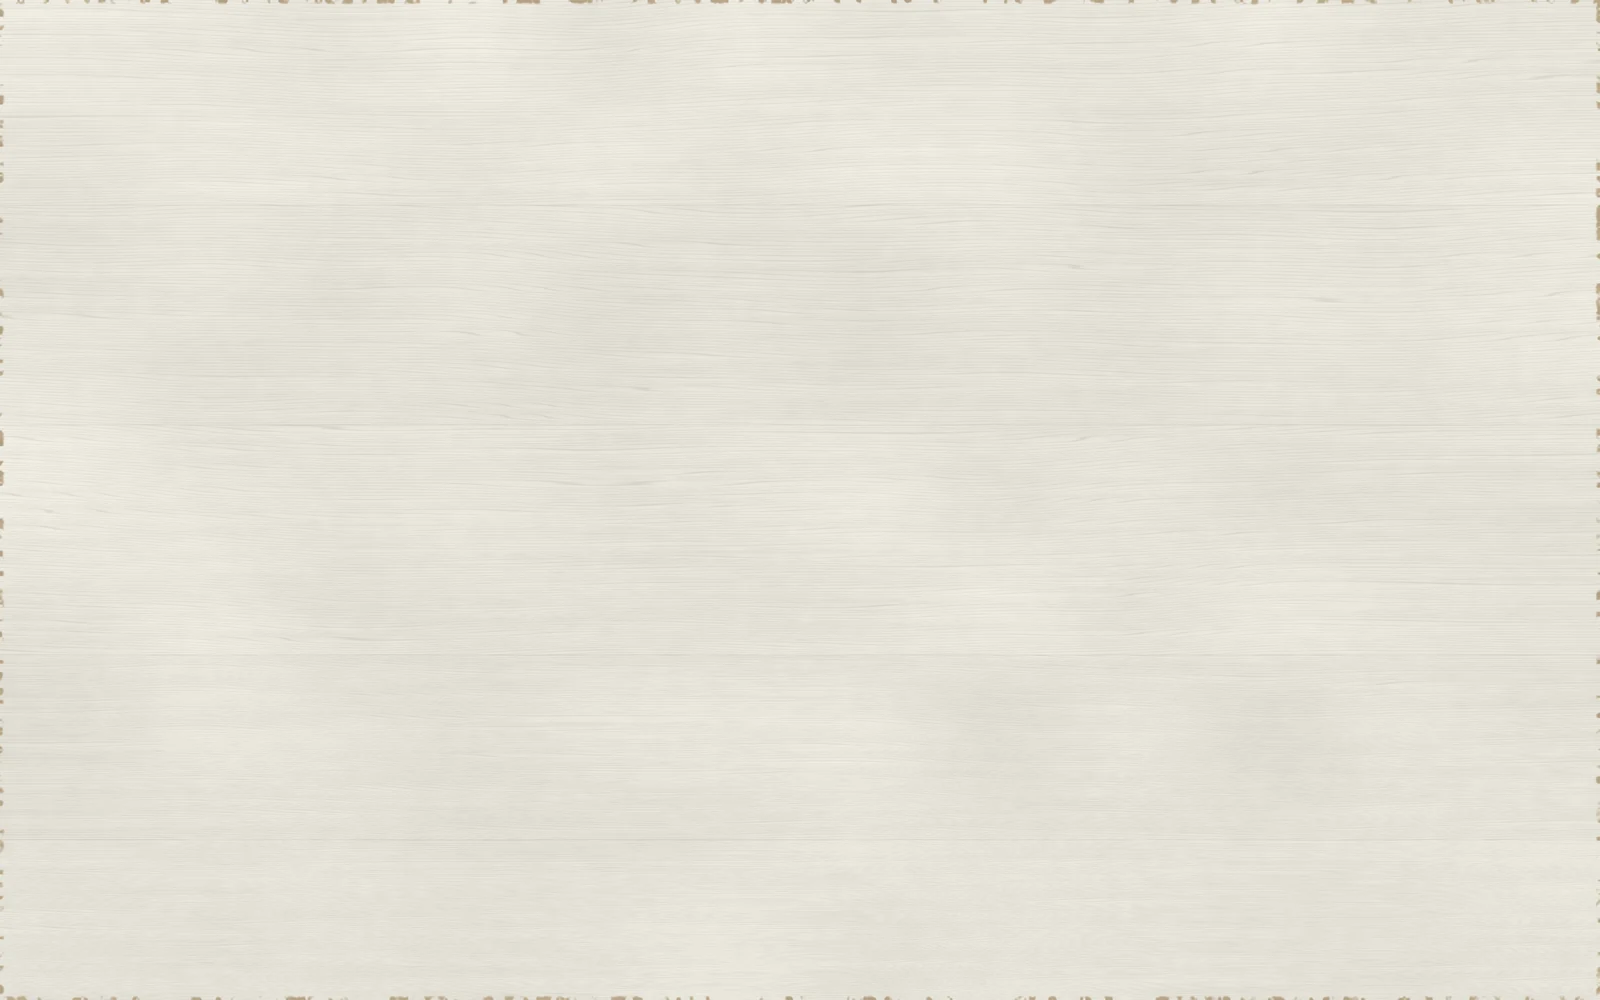
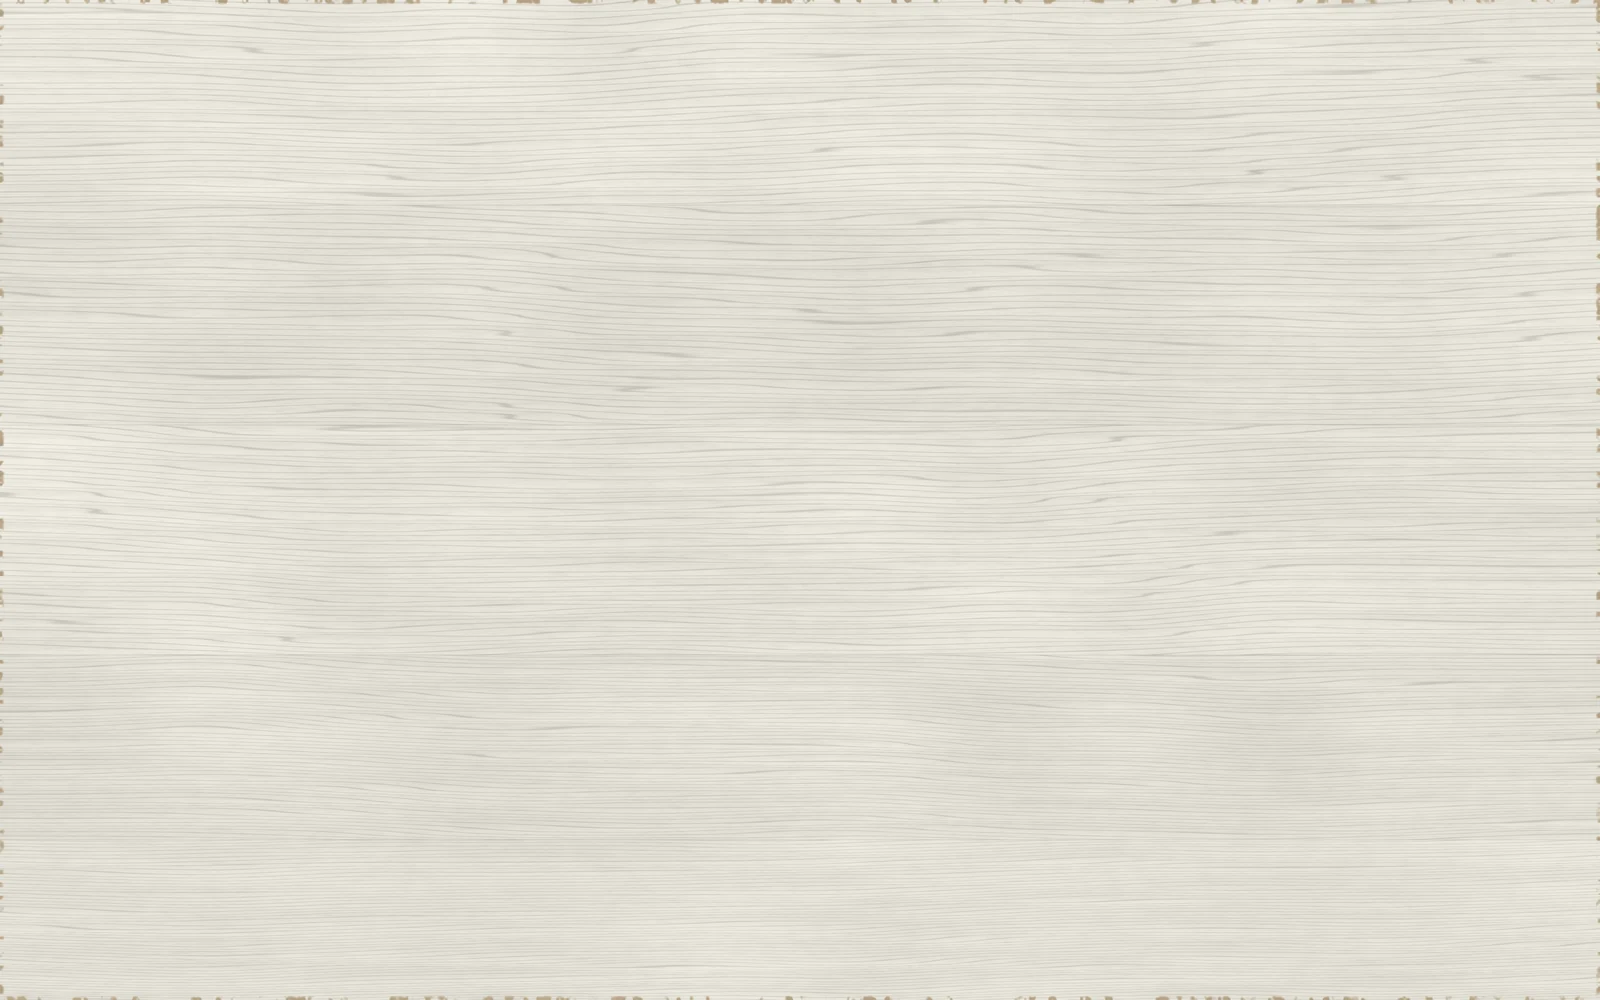
Reveal the desk carving, drawers and legs with detailed materials and inspection views

diff --git a/src/main.js b/src/main.js
@@ -24,7 +24,7 @@ viewButton.addEventListener('click', () => {
   viewButton.setAttribute('aria-pressed', String(close));
   viewButton.setAttribute('aria-label', close ? 'Return to the whole desk' : 'Look closer at the desk');
   room.classList.toggle('is-close', close);
-  status.textContent = close ? 'A closer overhead view of the writing surface.' : 'An overhead view of the writing desk.';
+  status.textContent = close ? 'A closer view of the carved drawers, porcelain knobs, and cabriole legs.' : 'An elevated view of the antique writing desk.';
   engine?.invalidate();
 });
 
@@ -41,15 +41,17 @@ async function init() {
   scene.background = new THREE.Color('#b9afa0');
   scene.fog = new THREE.FogExp2('#b9afa0', .009);
   const camera = new THREE.OrthographicCamera(-8.2, 8.2, 5.7, -5.7, .1, 80);
-  // The writing surface is the composition. Looking along -Y with -Z up
-  // keeps every desktop edge square to the screen, including during motion.
-  camera.up.set(0, 0, -1);
-  const baseTarget = new THREE.Vector3(0, .203, 0);
+  // Keep the tabletop prominent while revealing the frieze and carved knees.
+  // The detail view lowers the eye to the drawer fronts instead of zooming
+  // further into an empty patch of the writing surface.
+  const baseTarget = new THREE.Vector3(0, -2.3, 0);
+  const overviewDirection = new THREE.Vector3(2, 22, 17).normalize();
+  const detailDirection = new THREE.Vector3(3, 15, 23).normalize();
   createEnvironment(renderer, scene);
-  const hemisphere = new THREE.HemisphereLight('#e9edf1', '#8d7561', .72);
+  const hemisphere = new THREE.HemisphereLight('#e9edf1', '#8d7561', .42);
   scene.add(hemisphere);
   const sunlight = new THREE.DirectionalLight('#fff0d6', 3.0);
-  sunlight.position.set(-8, 12, 10);
+  sunlight.position.set(-11, 9, 8);
   sunlight.target.position.set(0, -2, 0);
   sunlight.castShadow = true;
   sunlight.shadow.mapSize.set(1024, 1024);
@@ -66,14 +68,16 @@ async function init() {
     const a = i / 6 * Math.PI * 2;
     const light = sunlight.clone();
     light.target = sunlight.target;
-    light.position.set(-8 + Math.cos(a) * 2.1, 12 + Math.sin(a) * 2.5, 10 + Math.cos(a) * 1.6);
+    light.position.set(-11 + Math.cos(a) * 1.6, 9 + Math.sin(a) * 1.8, 8 + Math.cos(a) * 1.2);
     windowLights.push(light); scene.add(light);
   }
-  const fill = new THREE.DirectionalLight('#dfe7ee', .55);
+  const fill = new THREE.DirectionalLight('#dfe7ee', .32);
   fill.position.set(9, 3, 7); scene.add(fill);
-  const rim = new THREE.DirectionalLight('#fff3e3', .75);
+  const rim = new THREE.DirectionalLight('#fff3e3', .45);
   rim.position.set(-2, 6, -8); scene.add(rim);
   const [desk, carpet] = await Promise.all([createDesk(renderer), createCarpet(renderer)]);
+  // A room-size carpet keeps the elevated composition on the blush textile.
+  carpet.scale.set(1.85, 1, 1.85); carpet.position.z = -3;
   scene.add(createFloor(), carpet, desk.group);
   renderer.shadowMap.needsUpdate = true;
 
@@ -88,7 +92,8 @@ async function init() {
   composer.addPass(ao); composer.addPass(new OutputPass());
 
   let width = 0, height = 0, frame = 0, lastTime = 0;
-  let currentLight = 0, currentZoom = 1;
+  let currentLight = 0, currentDetail = 0;
+  let pan = 0, drag = null;
   const pointer = new THREE.Vector2(), currentPointer = new THREE.Vector2();
   const afternoon = new THREE.Color('#fff0d6'), dusk = new THREE.Color('#ffcb94');
   const sky = new THREE.Color('#e9edf1'), duskSky = new THREE.Color('#b9c0d0');
@@ -97,10 +102,20 @@ async function init() {
     renderer.setSize(width, height, false); composer.setSize(width, height);
     // A narrow carpet surround on desktop; portrait crops the sides instead
     // of shrinking the writing surface into the middle of a large floor.
-    const aspect = width / height, viewHeight = Math.min(11.4, 16.4 / aspect);
+    const aspect = width / height, viewHeight = Math.min(12.2, Math.max(11.6, 17.6 / aspect));
     camera.left = -viewHeight * aspect / 2; camera.right = -camera.left;
     camera.top = viewHeight / 2; camera.bottom = -camera.top;
     camera.updateProjectionMatrix();
+    invalidate();
+  }
+  function panLimit() {
+    const cropped = 8.1 - (camera.right - camera.left) / (2 * camera.zoom);
+    // A little travel past the edge brings the outer knob and carved knee
+    // into the centre of a phone, clear of the floating atmosphere controls.
+    return cropped > 0 ? Math.min(6.6, cropped + 1.2) : 0;
+  }
+  function setPan(value) {
+    pan = THREE.MathUtils.clamp(value, -panLimit(), panLimit());
     invalidate();
   }
   function invalidate() { if (!frame && !document.hidden) frame = requestAnimationFrame(render); }
@@ -108,31 +123,66 @@ async function init() {
     frame = 0;
     const delta = Math.min((now - (lastTime || now - 16)) / 1000, .05); lastTime = now;
     const factor = motionQuery.matches ? 1 : 1 - Math.exp(-delta * 6);
-    const desiredLight = evening ? 1 : 0, desiredZoom = close ? 1.30 : 1;
+    const desiredLight = evening ? 1 : 0, desiredDetail = close ? 1 : 0;
     currentLight = THREE.MathUtils.lerp(currentLight, desiredLight, factor);
-    currentZoom = THREE.MathUtils.lerp(currentZoom, desiredZoom, factor);
+    currentDetail = THREE.MathUtils.lerp(currentDetail, desiredDetail, factor);
     currentPointer.lerp(pointer, factor);
     for (const light of windowLights) {
       light.color.copy(afternoon).lerp(dusk, currentLight);
-      light.intensity = (2.65 - currentLight * .95) / windowLights.length;
+      light.intensity = (3.05 - currentLight * .95) / windowLights.length;
     }
     hemisphere.color.copy(sky).lerp(duskSky, currentLight);
-    hemisphere.intensity = .72 - currentLight * .18;
-    renderer.toneMappingExposure = .98 - currentLight * .08;
+    hemisphere.intensity = .42 - currentLight * .10;
+    renderer.toneMappingExposure = .94 - currentLight * .06;
     const target = baseTarget.clone();
     target.x += currentPointer.x * .07;
-    target.z += currentPointer.y * .05 - (currentZoom - 1) * 1.2;
-    camera.position.copy(target).add(new THREE.Vector3(0, 24, 0));
-    camera.lookAt(target); camera.zoom = currentZoom; camera.updateProjectionMatrix();
+    target.y -= currentDetail * .15;
+    target.z += currentPointer.y * .05 + currentDetail * 1.2;
+    const direction = overviewDirection.clone().lerp(detailDirection, currentDetail).normalize();
+    camera.zoom = 1 + currentDetail * .14;
+    pan = THREE.MathUtils.clamp(pan, -panLimit(), panLimit());
+    const right = new THREE.Vector3(direction.z, 0, -direction.x).normalize();
+    target.addScaledVector(right, pan);
+    camera.position.copy(target).addScaledVector(direction, 28);
+    camera.lookAt(target); camera.updateProjectionMatrix();
+    const pannable = panLimit() > .1;
+    room.classList.toggle('is-pannable', pannable);
+    canvas.tabIndex = pannable ? 0 : -1;
+    if (pannable) canvas.setAttribute('aria-describedby', 'desk-help');
+    else canvas.removeAttribute('aria-describedby');
     composer.render();
-    const unsettled = Math.abs(currentLight - desiredLight) > .0005 || Math.abs(currentZoom - desiredZoom) > .0005 || currentPointer.distanceToSquared(pointer) > .00001;
+    const unsettled = Math.abs(currentLight - desiredLight) > .0005 || Math.abs(currentDetail - desiredDetail) > .0005 || currentPointer.distanceToSquared(pointer) > .00001;
     if (unsettled) invalidate();
   }
   room.addEventListener('pointermove', event => {
-    if (motionQuery.matches || !finePointer.matches || event.pointerType === 'touch') return;
+    if (drag || motionQuery.matches || !finePointer.matches || event.pointerType === 'touch') return;
     pointer.set((event.clientX / width - .5) * 2, (event.clientY / height - .5) * 2); invalidate();
   }, { passive: true });
   room.addEventListener('pointerleave', () => { pointer.set(0, 0); invalidate(); });
+  canvas.addEventListener('pointerdown', event => {
+    if (!event.isPrimary || event.button !== 0 || panLimit() <= .1) return;
+    drag = { id: event.pointerId, x: event.clientX, pan };
+    pointer.set(0, 0);
+    canvas.setPointerCapture(event.pointerId);
+    room.classList.add('is-dragging');
+  });
+  canvas.addEventListener('pointermove', event => {
+    if (!drag || event.pointerId !== drag.id) return;
+    const visibleWidth = (camera.right - camera.left) / camera.zoom;
+    setPan(drag.pan - (event.clientX - drag.x) / width * visibleWidth);
+  });
+  const endDrag = () => { drag = null; room.classList.remove('is-dragging'); };
+  canvas.addEventListener('lostpointercapture', endDrag);
+  canvas.addEventListener('pointercancel', endDrag);
+  canvas.addEventListener('pointerup', event => {
+    if (canvas.hasPointerCapture(event.pointerId)) canvas.releasePointerCapture(event.pointerId);
+    endDrag();
+  });
+  canvas.addEventListener('keydown', event => {
+    if (!['ArrowLeft', 'ArrowRight', 'Home'].includes(event.key)) return;
+    event.preventDefault();
+    setPan(event.key === 'Home' ? 0 : pan + (event.key === 'ArrowRight' ? .9 : -.9));
+  });
   motionQuery.addEventListener('change', () => { pointer.set(0, 0); invalidate(); });
   document.addEventListener('visibilitychange', () => {
     if (document.hidden) { cancelAnimationFrame(frame); frame = 0; }
@@ -140,6 +190,7 @@ async function init() {
   });
   canvas.addEventListener('webglcontextlost', event => {
     event.preventDefault(); cancelAnimationFrame(frame); frame = 0;
+    endDrag(); canvas.tabIndex = -1;
     room.classList.remove('is-ready'); document.querySelector('.desk-controls').hidden = true;
     status.textContent = 'Showing the still desk while the graphics connection recovers.';
   });

diff --git a/src/desk.js b/src/desk.js
@@ -24,14 +24,14 @@ export async function createDesk(renderer) {
   const writingSurface = new THREE.Group(); writingSurface.position.y = DESK.surfaceY;
   writingSurface.name = 'writing-surface-objects'; group.add(writingSurface);
   const loader = new THREE.TextureLoader();
-  const [colorMap, bumpMap, roughnessMap] = await Promise.all(['ivory-color', 'ivory-height', 'ivory-roughness'].map(name => loader.loadAsync(`${import.meta.env.BASE_URL}materials/${name}.webp`)));
+  const [colorMap, bumpMap, roughnessMap] = await Promise.all(['ivory-color', 'ivory-height', 'ivory-roughness'].map(name => loader.loadAsync(`${import.meta.env.BASE_URL}materials/${name}.webp?v=grain-2`)));
   colorMap.colorSpace = THREE.SRGBColorSpace;
   for (const t of [colorMap, bumpMap, roughnessMap]) t.anisotropy = Math.min(8, renderer.capabilities.getMaxAnisotropy());
-  const paint = new THREE.MeshStandardMaterial({ color: '#e6e0d2', roughness: .64, bumpMap, bumpScale: .009 });
+  const paint = new THREE.MeshStandardMaterial({ color: '#e6e0d2', roughness: .68, bumpMap, bumpScale: .018 });
   const edge = new THREE.MeshStandardMaterial({ color: '#d6cdbb', roughness: .60 });
   const recess = new THREE.MeshStandardMaterial({ color: '#a79b86', roughness: .88 });
-  const panel = new THREE.MeshStandardMaterial({ color: '#dbd4c5', roughness: .72, bumpMap, bumpScale: .012 });
-  const wood = new THREE.MeshStandardMaterial({ map: colorMap, bumpMap, bumpScale: .016, roughnessMap, roughness: .76, color: '#f8f5ed' });
+  const panel = new THREE.MeshStandardMaterial({ color: '#dbd4c5', roughness: .72, bumpMap, bumpScale: .025 });
+  const wood = new THREE.MeshStandardMaterial({ map: colorMap, bumpMap, bumpScale: .045, roughnessMap, roughness: .84, color: '#f8f5ed' });
   const brass = new THREE.MeshStandardMaterial({ color: '#9c7844', metalness: .84, roughness: .39 });
   const bronze = new THREE.MeshStandardMaterial({ color: '#655239', metalness: .73, roughness: .58 });
   const porcelain = new THREE.MeshPhysicalMaterial({ color: '#e9e2d4', roughness: .24, clearcoat: .55, clearcoatRoughness: .27 });
@@ -123,9 +123,9 @@ export async function createDesk(renderer) {
       petal.scale.set(.035, .048, .02); petal.rotation.z = -a;
     }
     const neck = mesh(new THREE.CylinderGeometry(.067, .085, .16, 24), brass, x, y, z + .12); neck.rotation.x = Math.PI / 2;
-    const bulb = mesh(new THREE.SphereGeometry(1, 32, 24), porcelain, x, y, z + .24); bulb.scale.set(.155, .16, .115);
-    mesh(new THREE.TorusGeometry(.15, .012, 8, 32), brass, x, y, z + .245);
-    const face = mesh(new THREE.SphereGeometry(.024, 12, 8), brass, x, y, z + .354); face.scale.z = .5;
+    const bulb = mesh(new THREE.SphereGeometry(1, 32, 24), porcelain, x, y, z + .24); bulb.scale.set(.185, .18, .135);
+    mesh(new THREE.TorusGeometry(.175, .012, 8, 32), brass, x, y, z + .245);
+    const face = mesh(new THREE.SphereGeometry(.024, 12, 8), brass, x, y, z + .374); face.scale.z = .5;
   }
   for (const x of [-4.82, -1.34, 1.34, 4.82]) knob(x, -.93);
   const keyplate = mesh(new THREE.SphereGeometry(1, 24, 16), brass, 0, -1.30, 3.50); keyplate.scale.set(.09, .13, .018);
@@ -160,7 +160,7 @@ function taperedLeg(curve, radii) {
 export function createEnvironment(renderer, scene) {
   const generator = new THREE.PMREMGenerator(renderer), room = new RoomEnvironment();
   const result = generator.fromScene(room, .08);
-  scene.environment = result.texture; scene.environmentIntensity = .30;
+  scene.environment = result.texture; scene.environmentIntensity = .20;
   room.dispose(); generator.dispose(); return result;
 }
 

diff --git a/src/ornaments.js b/src/ornaments.js
@@ -57,15 +57,20 @@ export function createCarvings(paint, edgePaint, patina) {
     return curve;
   }
   function leaf(x, y, angle, length = .55, width = .22, relief = .075) {
-    const vertices = [], uv = [], indices = [], rows = 26, columns = 10;
+    const vertices = [], uv = [], indices = [], rows = 36, columns = 18;
     for (let i = 0; i <= rows; i++) {
       const t = i / rows;
       const envelope = Math.pow(Math.sin(Math.PI * t), .85);
       const lobes = .87 + .13 * Math.cos(t * Math.PI * 7);
       for (let j = 0; j <= columns; j++) {
         const s = j / columns * 2 - 1;
+        // Incised branching veins are cut into the leaf surface itself so
+        // side lighting catches their rounded shoulders and recessed channels.
+        let channels = 0;
+        for (const fork of [.20, .39, .58, .74]) channels += Math.exp(-Math.pow((t - fork - Math.abs(s) * .15) / .024, 2));
+        const veinDepth = .014 * channels * Math.sin(Math.PI * Math.abs(s)) * envelope;
         vertices.push(t * length, s * width * envelope * lobes,
-          .018 + relief * envelope * Math.pow(Math.max(0, 1 - s * s), 1.2) + .024 * Math.sin(t * Math.PI * 2));
+          .018 + relief * envelope * Math.pow(Math.max(0, 1 - s * s), 1.2) + .024 * Math.sin(t * Math.PI * 2) - veinDepth);
         uv.push(t, j / columns);
         if (i < rows && j < columns) {
           const a = i * (columns + 1) + j, b = a + columns + 1;
@@ -158,10 +163,10 @@ export function createCarvings(paint, edgePaint, patina) {
   }
   // Restrained corner details and a fine pearl edge leave a clear writing surface.
   for (const [x, z, rotation] of [[-7.12, -3.23, 0], [7.12, -3.23, -Math.PI / 2], [7.12, 3.15, Math.PI], [-7.12, 3.15, Math.PI / 2]]) {
-    frame = new THREE.Matrix4().makeTranslation(x, .203, z).multiply(new THREE.Matrix4().makeRotationX(-Math.PI / 2)).multiply(new THREE.Matrix4().makeRotationZ(rotation)).multiply(new THREE.Matrix4().makeScale(.9, .9, .4));
-    foliate([[0, -.95], [.02, -.15], [.30, -.02], [1, 0]], 5, .22);
+    frame = new THREE.Matrix4().makeTranslation(x, .203, z).multiply(new THREE.Matrix4().makeRotationX(-Math.PI / 2)).multiply(new THREE.Matrix4().makeRotationZ(rotation)).multiply(new THREE.Matrix4().makeScale(1.3, 1.3, .85));
+    foliate([[0, -.95], [.02, -.15], [.30, -.02], [1, 0]], 7, .28);
     stroke([[.15, -.60], [.85, -.72], [.72, -.13], [.48, -.27]], .023);
-    rose(.16, -.15, .10);
+    rose(.16, -.15, .15);
   }
   for (let i = 0; i < 150; i++) {
     const x = -7.20 + i * 14.40 / 149;

diff --git a/index.html b/index.html
@@ -13,12 +13,14 @@
     <main id="room" aria-label="An antique white wooden writing desk">
       <div id="desk-fallback" aria-hidden="true">
         <picture>
-          <source media="(max-aspect-ratio: 3/4)" srcset="./materials/desk-still-portrait.webp?v=overhead-1" />
-          <img src="./materials/desk-still.webp?v=overhead-1" alt="" fetchpriority="high" />
+          <source media="(min-aspect-ratio: 3/2)" srcset="./materials/desk-still-wide.webp?v=detail-2" />
+          <source media="(max-aspect-ratio: 3/4)" srcset="./materials/desk-still-portrait.webp?v=detail-2" />
+          <img src="./materials/desk-still.webp?v=detail-2" alt="" fetchpriority="high" />
         </picture>
       </div>
       <h1 class="sr-only">Wildfell Hall</h1>
-      <canvas id="desk" aria-label="Looking directly down at an antique ivory writing desk, with carved corner reliefs, gold script, and a light pink Aubusson-inspired floral carpet"></canvas>
+      <canvas id="desk" aria-label="An elevated view of an antique ivory writing desk, with visible wood grain, carved drawers, porcelain and brass knobs, cabriole legs, gold script, and a light pink floral carpet"></canvas>
+      <p id="desk-help" class="sr-only">Drag horizontally or use the left and right arrow keys to inspect the sides of the desk. Press Home to return to the centre.</p>
       <div class="room-vignette" aria-hidden="true"></div>
         <div class="desk-controls" role="group" aria-label="Room atmosphere" hidden>
           <button id="light-toggle" aria-label="Change to evening light" aria-pressed="false">

diff --git a/src/style.css b/src/style.css
@@ -5,8 +5,11 @@ button { font: inherit; color: inherit; }
 [hidden] { display: none !important; }
 button:focus-visible { outline: 2px solid #947039; outline-offset: 5px; border-radius: 50%; }
 #room { position: relative; width: 100%; height: 100svh; min-height: 420px; overflow: hidden; isolation: isolate; background: #b9afa0; }
-#desk { position: absolute; width: 100%; height: 100%; display: block; opacity: 0; transition: opacity 1.2s ease; outline: none; }
+#desk { position: absolute; width: 100%; height: 100%; display: block; opacity: 0; transition: opacity 1.2s ease; outline: none; touch-action: pan-y pinch-zoom; }
 .is-ready #desk { opacity: 1; }
+.is-ready.is-pannable #desk { cursor: grab; }
+.is-ready.is-dragging #desk { cursor: grabbing; }
+#desk:focus-visible { outline: 2px solid #947039; outline-offset: -4px; }
 .room-vignette { position: absolute; inset: 0; pointer-events: none; background: radial-gradient(ellipse at 47% 42%, transparent 40%, #302d2312 100%); z-index: 1; }
 .desk-controls { position: absolute; z-index: 3; right: max(20px, env(safe-area-inset-right)); bottom: max(18px, env(safe-area-inset-bottom)); display: flex; align-items: center; gap: 5px; padding: 3px; border-radius: 28px; background: #f9f0e8a6; border: 1px solid #fff7; box-shadow: 0 2px 12px #49332b0c; backdrop-filter: blur(9px); }
 .desk-controls button { border: 0; border-radius: 50%; background: transparent; padding: 12px; display: grid; place-items: center; cursor: pointer; transition: color .2s, background .2s; width: 44px; height: 44px; }

diff --git a/scripts/make-materials.py b/scripts/make-materials.py
@@ -38,11 +38,11 @@ for i, (low, high) in enumerate(zip(bounds[:-1], bounds[1:])):
     center_y = [.46, .7, .32, .4, .72][i]
     warp = .012 * np.sin(x * 15 + i * 4) + .013 * (long - .5)
     ellipse = np.sqrt(((x - center_x) * .29) ** 2 + ((yy - center_y) * .18) ** 2 + .00018)
-    phase = (yy + warp + ellipse * .65 + (cloud - .5) * .025) * (64 + i * 9)
+    phase = (yy + warp + ellipse * .65 + (cloud - .5) * .025) * (32 + i * 5)
     annual = np.maximum(0, np.sin(phase * 6.283 + long * 3)) ** 8
     fibers = np.maximum(0, np.sin((yy + warp * .08) * 1900 + fine * 5)) ** 18
     grain += mask * (annual * .55 + fibers * .25 + long * .15)
-    board_tint += mask * [1, -1.2, .4, -1.8, .3][i]
+    board_tint += mask * [1.8, -2.4, .7, -3, .5][i]
     if i:
         seam_center = low + .00015 * np.sin(x * 35 + i) + .00011 * (cloud - .5)
         seams += np.exp(-((y - seam_center) / .00032) ** 2) * .7
@@ -54,12 +54,12 @@ edge_field = field(230, 170) * .7 + field(650, 430) * .3
 wear = np.clip((3 + edge_field * 11 - distance) / 7, 0, 1)
 chips = wear * np.clip((edge_field - .58) * 6, 0, 1)
 tone = (cloud - .5) * 9 + (paint - .5) * 2.8 + (brush - .5) * 2.4
-tone += board_tint - grain * 27 - seams * 24 + micro * .7
+tone += board_tint - grain * 49 - seams * 34 + micro * .7
 base = np.stack([235 + tone, 232 + tone, 222 + tone], axis=-1)
 wood = np.stack([163 + long * 16, 140 + long * 16, 108 + long * 13], axis=-1)
 base = base * (1 - chips[..., None] * .78) + wood * chips[..., None] * .78
 albedo = Image.fromarray(np.uint8(np.clip(base, 0, 255)))
-height = Image.fromarray(np.uint8(np.clip(164 - grain * 64 - seams * 100 + (brush - .5) * 19 + micro * 2 - chips * 38, 0, 255)))
+height = Image.fromarray(np.uint8(np.clip(164 - grain * 82 - seams * 100 + (brush - .5) * 19 + micro * 2 - chips * 38, 0, 255)))
 rough = Image.fromarray(np.uint8(np.clip(193 + (cloud - .5) * 24 + grain * 25 - wear * 20 + micro * 2, 0, 255)))
 
 # Quiet, nonuniform traces of use. Never a repeating grunge overlay.
